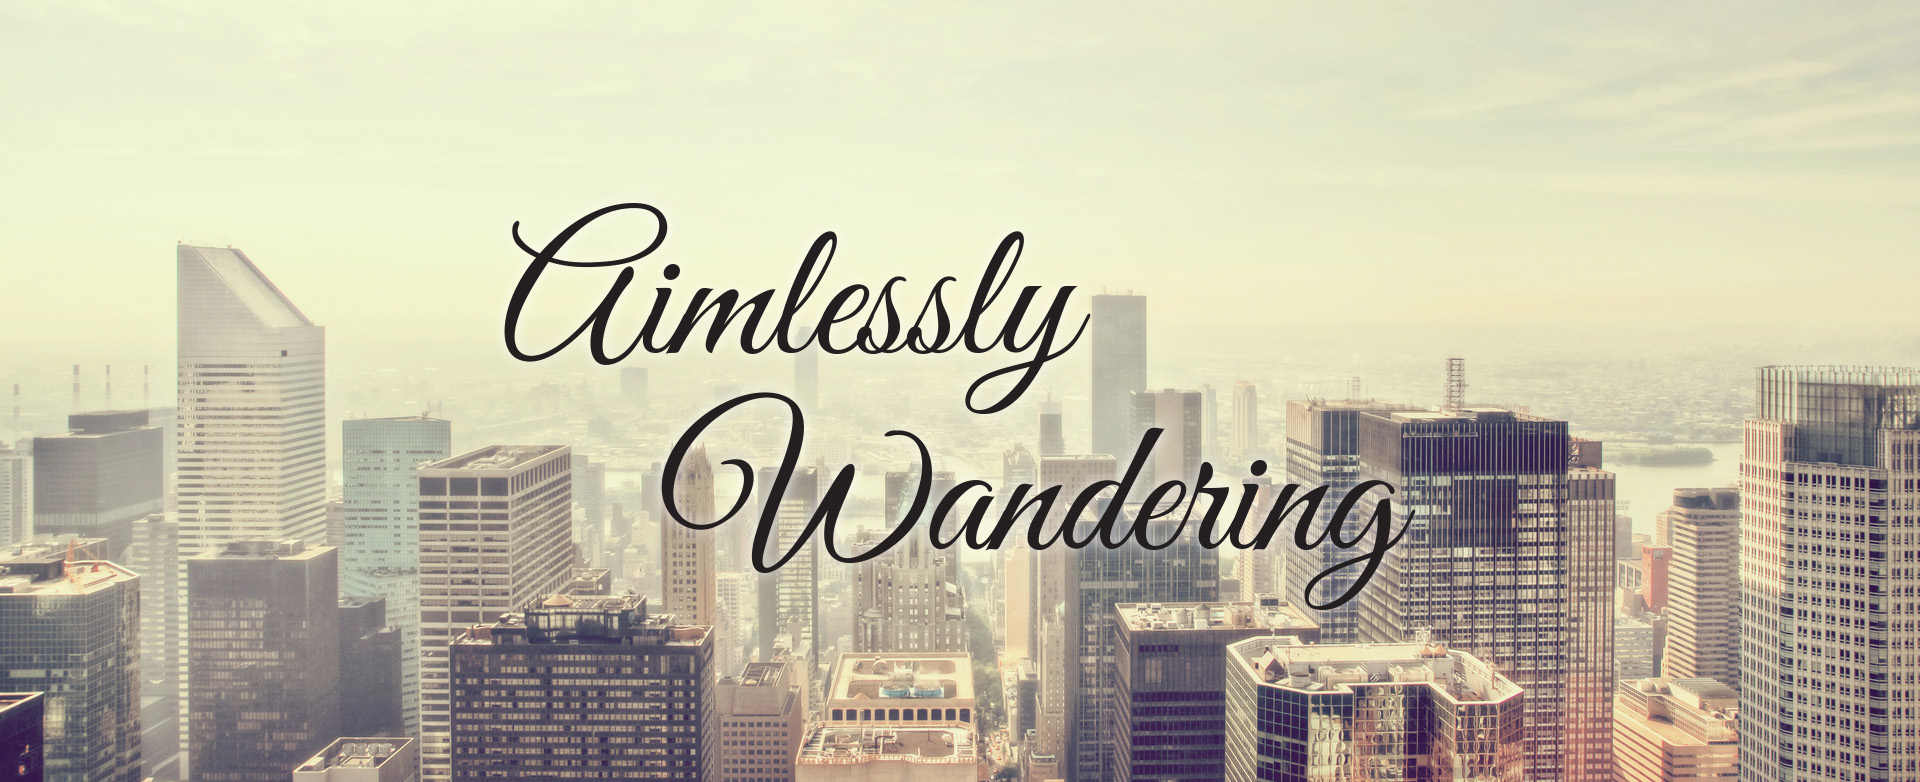
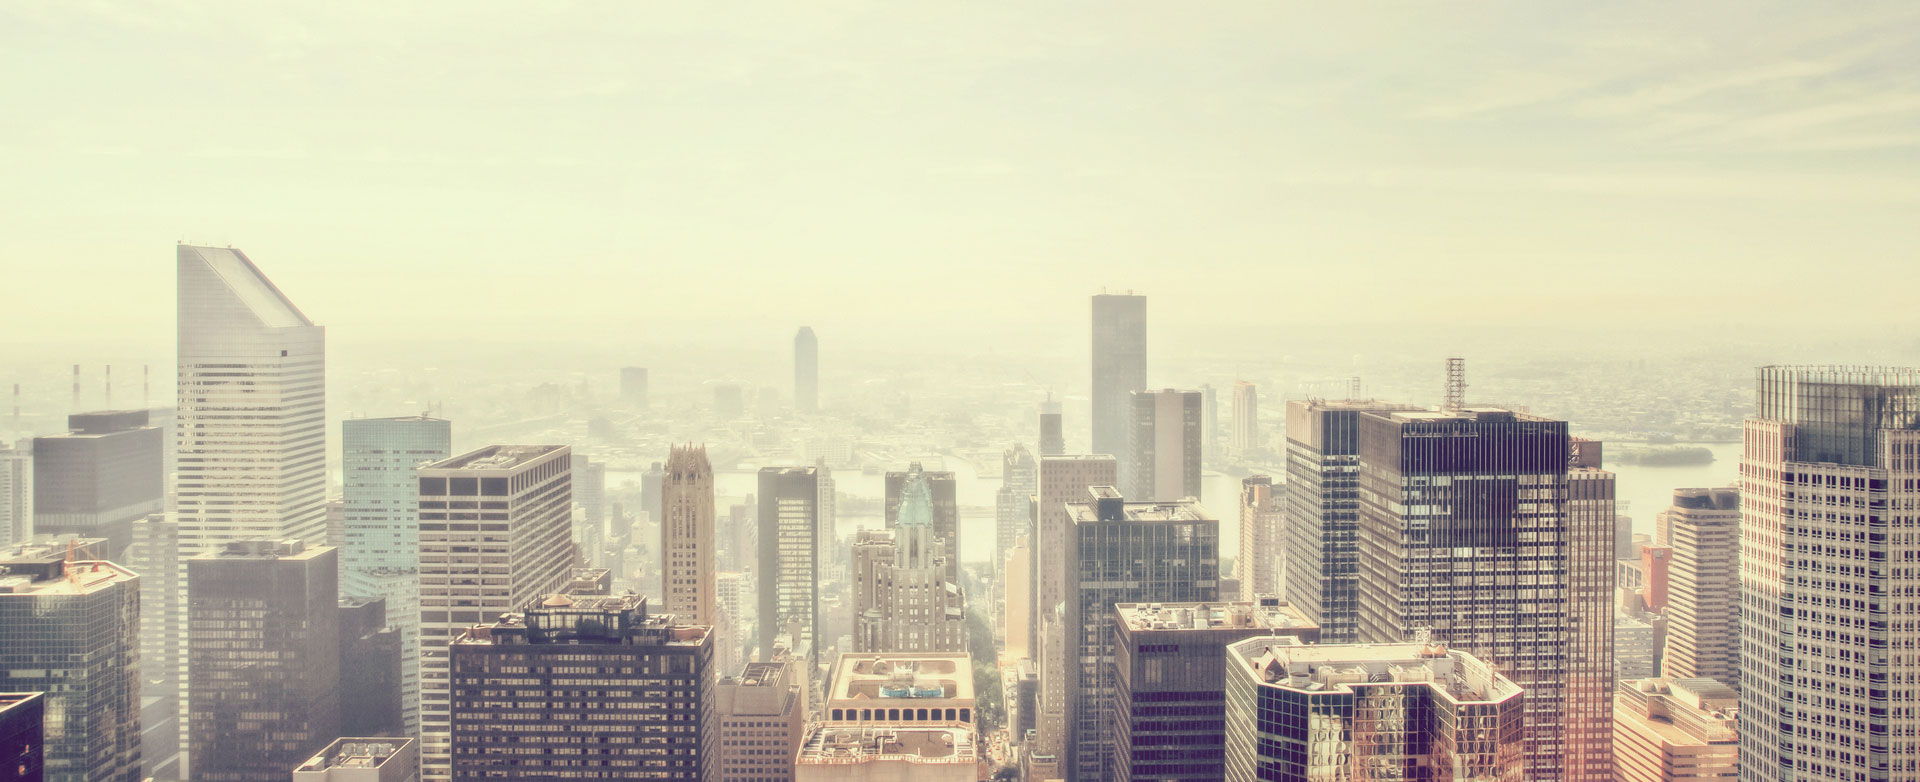
Unit 5
working on Unit five, these are updates

diff --git a/index.html b/index.html
@@ -8,17 +8,23 @@
 	</head>
 	<body>
 		<div id="splash">
-			<img src="images/aimlesslywandering.jpg" alt="Aimlessly Wandering logo" class="image">
+			<img src="images/aimlesslywandering_logo.gif" alt="Aimlessly Wandering logo" class="logo">
 		</div>
 		<p id="slogan">Don't be afraid of getting lost, be afraid of never having that adventure</p>
-		<p>Wanderlust isn't just a word to me, it's a way of life. These are just a few stories of how I experience it</p>
-		<p>My blog will include</p>
-		<ul>
-			<li>Blog entries</li>
-			<li>Destinations</li>
-			<li>Photos</li>
-			<li>About me/Why I love to travel</li>
+		<ul class="nav">
+			<li><a href="url">Blog</a></li>
+			<li><a href="url">Photos</a></li>
+			<li><a href="url">Photos</a></li>
+			<li><a href="url">About me</a></li>
+			<li><a href="url">Contact me</a></li>
 		</ul>
-		 <a href="url">Contact me</a> 
+		<p>Wanderlust isn't just a word to me, it's a way of life. These are just a few stories of how I experience it</p>
+		<div id="rome">
+			<img src="images/rome.jpg" alt="Colloseum Rome, Italy">
+			<p>I have traveled more in the last several weeks than I have in my entire life. Yesterday was the end of that journey and me coming home for the first time in 4 weeks.</p>
+		</div>
+		<section id="aboutme">
+			<img src="images/aboutme-photo.gif">
+		</section>
 	</body>
 </html>

diff --git a/style.css b/style.css
@@ -8,31 +8,57 @@ body{
 	font-weight:normal;
 	text-align:center;
 }
-h1{
-	color:#C7C7C7;
-	font-family:Arial, helvetica, sans-serif;
-	font-size:2em;
-	font-style:normal;
-	font-weight:normal;
+p{
+	padding:1.25em .5em .5em .5em;
+	font-size:19px;'
 }
-ul{
+li{
 	list-style-type: none;
+	display:inline-block;
+	list-style: none;
+	padding:0 .25em 0 .25em;
 }
 a{
 	text-decoration: none;
 	color:#72C7C7;
+	display:inline-block;
+	list-style: none;
 }
 #splash {
 	background-image: url(images/aimlesslywandering.jpg);
 	background-size:cover;
 	background-repeat:no-repeat;
-	height:50vh;
-}
-.image{
 	width:100%;
+}
+.logo{
+	width:100%;
+	padding: 2em 0 5em 0;
 }
 #slogan{
 	font-family: 'Nixie One', cursive;
 	font-size:2em;
 	line-height:1.25em;
+	padding:1em 1em .25em 1em;
 }
+#nav{
+	text-decoration: none;
+	color:#72C7C7;
+	display:inline-block;
+	list-style-type: none;
+	list-style: none;
+}
+#rome{
+	width: 900px;
+	height:625px;
+	margin:0;
+	text-align: left;
+	float:left;
+}
+#aboutme{
+	width:200px;
+	height:400px;
+	float: right;
+	background-color: blue;
+	margin:0;
+}
+
